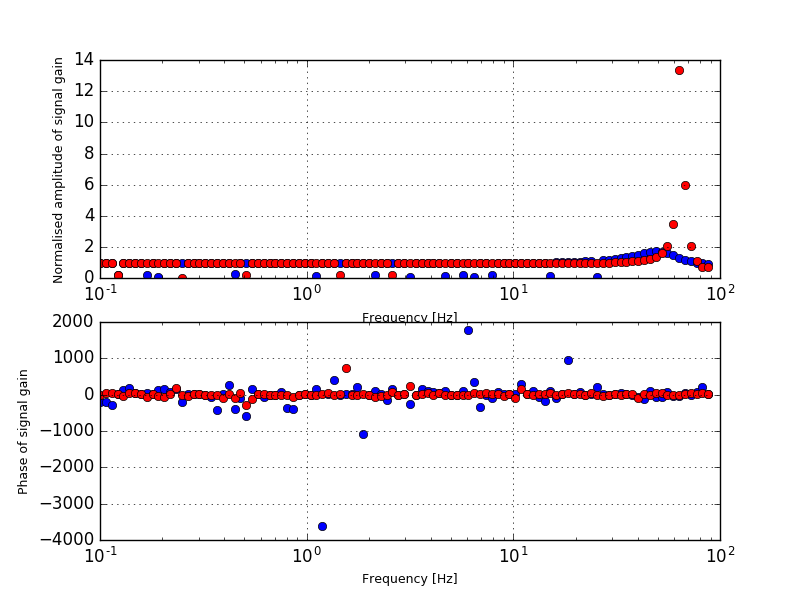
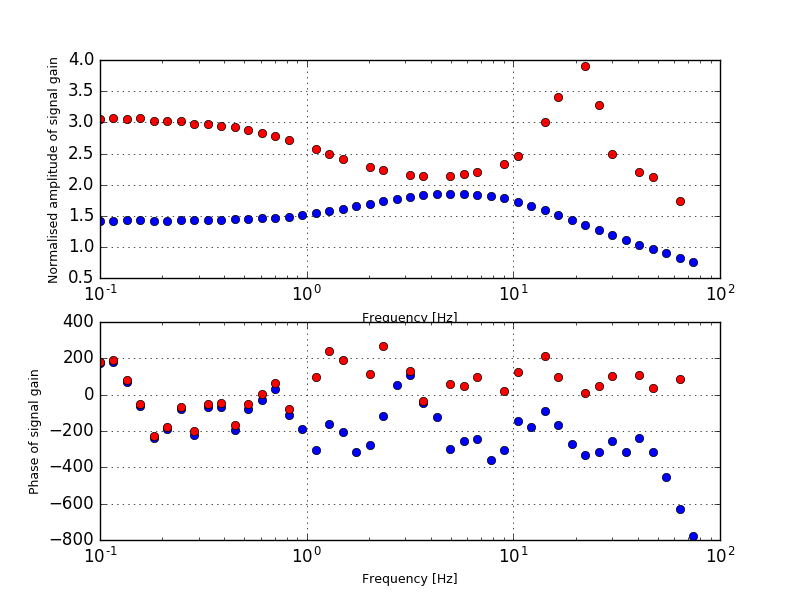
converted phase to rad in compute_gain

diff --git a/gain/GIF2val_functions_blau.py b/gain/GIF2val_functions_blau.py
@@ -13,10 +13,13 @@ v2: added functionality to make a hitogram plot with sinus fit for data points
 # -----------------------------------------------------------------------------
 import numpy as np
 import scipy.optimize as opti
+import matplotlib as mpl
+mpl.use('Agg')
 import matplotlib.pyplot as plt
 import matplotlib.gridspec as gridspec
 import matplotlib.image as mpimg
 from matplotlib import rc
+from matplotlib.backends.backend_pdf import PdfPages
 rc('mathtext', default='regular')
 
 
@@ -36,9 +39,9 @@ class sinus:
 
 	def fit(self, t, amp, off, phi):
 		"""
-        Sine function for fitting amplitude, frequency, offset and phase.
-        :return: sine function with given parameters
-        """
+		Sine function for fitting amplitude, frequency, offset and phase.
+		:return: sine function with given parameters
+		"""
 		return amp * np.sin(2. * np.pi * self.f * t + phi) + off
 
 # -----------------------------------------------------------------------------
@@ -142,8 +145,37 @@ def import_params_as_dict(filename='jobdict.txt'):
 	return paramdict
 
 # -----------------------------------------------------------------------------
-# Visualise the results
+# Preprocessing
 # -----------------------------------------------------------------------------
+
+
+def import_gain(filename='gains.csv'):
+	"""
+	imports the gain matrix from a given file
+	"""
+	conditions = [ ]
+	with open(filename, 'r') as f:
+		for line in f.readlines():
+			if line:
+				freq, cond, gain_amp, gain_phase = line.strip().split(':')
+			else:
+				freq, cond, gain_amp, gain_phase = 0., 0., 0., 0.
+			if cond not in conditions:
+				conditions.append(cond)
+				print('condition {0} coded as {1}'.format(cond,
+														  conditions.index(
+															  cond)))
+			ind = conditions.index(cond)
+			try:
+				gain = np.vstack((gain,
+								  np.array([ ind, freq, gain_amp,
+											 gain_phase ],
+										   dtype=float)))
+			except NameError:
+				gain = np.array([ ind, freq, gain_amp, gain_phase ],
+								dtype=float)
+	gain = sort_gain(gain)
+	return gain, conditions
 
 
 def sort_gain(gainmat):
@@ -161,39 +193,10 @@ def sort_gain(gainmat):
 	return gainmat
 
 
-def import_gain(filename='gains.csv'):
-	"""
-	imports the gain matrix from a given file
-	"""
-	conditions = [ ]
-	with open(filename, 'r') as f:
-		for line in f.readlines():
-			if line:
-				freq, cond, gain_amp, gain_phase = line.strip().split(':')
-			else:
-				freq, cond, gain_amp, gain_phase = 0., 0., 0., 0.
-			if cond not in conditions:
-				conditions.append(cond)
-				print('condition {0} coded as {1}'.format(cond, conditions.index(cond)))
-			ind = conditions.index(cond)
-			try:
-				gain = np.vstack((gain,
-								  np.array([ ind, freq, gain_amp, gain_phase ],
-										   dtype=float)))
-			except NameError:
-				gain = np.array([ ind, freq, gain_amp, gain_phase ],
-								dtype=float)
-	gain = sort_gain(gain)
-	return gain, conditions
-
-
-def split_gain_conditions(gainmat, normalise=True, withone=False):
+def split_gain_conditions(gainmat):
 	"""
 	Separate the conditions for low and high noise in the gain matrix
 	"""
-	# exp_f_r, exp_r_0, C_m, g, g_1, tau_1:
-	paramdict = import_params_as_dict('jobdict.txt')
-
 	frequencies = np.hstack((np.array([ 0 ]),
 							 np.logspace(-1., 2., num=len(
 								 np.unique(gainmat[ :, 1 ])) - 1)))
@@ -217,9 +220,35 @@ def split_gain_conditions(gainmat, normalise=True, withone=False):
 	gains_high = gainmat[ gainmat[ :, 0 ] == 0 ][ :, 2: ]
 	gains_low = gainmat[ gainmat[ :, 0 ] == 1 ][ :, 2: ]
 
+	plotdict = dict(gains_low=gains_low,
+					gains_high=gains_high,
+					freqs_low=freqs_low,
+					freqs_high=freqs_high)
+	return plotdict
+
+
+def gain_normaliser(gaindict, normalise=True, withone=False, **kwargs):
+
+	gains_low = gaindict[ 'gains_low' ]
+	gains_high = gaindict[ 'gains_high' ]
+
+	# Correct the phases for periodicity
+	add_360 = kwargs.pop('add_360', 'False')
+	if add_360:
+		gains_high[ :, 1 ] += 360.0
+		gains_low[ :, 1 ] += 360.0
+	# while np.sum(gains_high >= 180.0) > 0 or np.sum(gains_high <= -180.0)
+	# > 0:
+	# 	gains_high[ gains_high >= 180.0 ] -= 360.0
+	# 	gains_high[ gains_high <= -180.0 ] += 360.0
+	# 	gains_low[ gains_low >= 180.0 ] -= 360.0
+	# 	gains_low[ gains_low <= -180.0 ] += 360.0
+
 	# smooth the phases
-	gains_high = smooth_gain_phase_period(gains_high)
-	gains_low = smooth_gain_phase_period(gains_low)
+	smooth_before = kwargs.pop('smooth_before', 'False')
+	if smooth_before:
+		gains_high = smooth_gain_phase_period(gains_high)
+		gains_low = smooth_gain_phase_period(gains_low)
 
 	# normalise?
 	if normalise and not withone:
@@ -229,28 +258,20 @@ def split_gain_conditions(gainmat, normalise=True, withone=False):
 		gains_low[ :, 1 ] /= gains_low[ 0, 1 ]
 	elif normalise and withone:
 		gains_high[ :, 0 ] /= gains_high[ 1, 0 ]
-		gains_high[ :, 1 ] /= gains_high[ 0, 1 ]
+		gains_high[ :, 1 ] /= gains_high[ 1, 1 ]
 		gains_low[ :, 0 ] /= gains_low[ 1, 0 ]
-		gains_low[ :, 1 ] /= gains_low[ 0, 1 ]
+		gains_low[ :, 1 ] /= gains_low[ 1, 1 ]
 
-	# smooth the phases again
-	gains_high = smooth_gain_phase_period(gains_high)
-	gains_low = smooth_gain_phase_period(gains_low)
+	smooth_after = kwargs.pop('smooth_after', 'False')
+	if smooth_after:
+		# smooth the phases again
+		gains_high = smooth_gain_phase_period(gains_high)
+		gains_low = smooth_gain_phase_period(gains_low)
 
-
-	# Correct the phases for periodicity
-
-	# while np.sum(gains_high >= 180.0) > 0 or np.sum(gains_high <= -180.0) > 0:
-	# 	gains_high[ gains_high >= 180.0 ] -= 360.0
-	# 	gains_high[ gains_high <= -180.0 ] += 360.0
-	# 	gains_low[ gains_low >= 180.0 ] -= 360.0
-	# 	gains_low[ gains_low <= -180.0 ] += 360.0
-
-	plotdict = dict(gains_low=gains_low,
-					gains_high=gains_high,
-					freqs_low=freqs_low,
-					freqs_high=freqs_high)
-	return plotdict
+	gaindict2 = dict(gains_high=gains_high, gains_low=gains_low,
+					 freqs_low=gaindict[ 'freqs_low' ],
+					 freqs_high=gaindict[ 'freqs_high' ])
+	return gaindict2
 
 
 def smooth_gain_phase_period(gains_sep):
@@ -265,11 +286,15 @@ def smooth_gain_phase_period(gains_sep):
 	return gains_sep
 
 
+# -----------------------------------------------------------------------------
+# Visualise the results
+# -----------------------------------------------------------------------------
+
 def show_gain(plotdict, save=True):
 	"""
 	creates the fig6 plots from richardson et al., 2003
 	"""
-	gains_low = plotdict[ 'gains_low' ]	
+	gains_low = plotdict[ 'gains_low' ]
 	gains_high = plotdict[ 'gains_high' ]
 	freqs_low = plotdict[ 'freqs_low' ]	
 	freqs_high = plotdict[ 'freqs_high' ]
@@ -292,6 +317,8 @@ def show_gain(plotdict, save=True):
 	plt.ylabel('Phase of signal gain', size=9.)
 	plt.xlim([ -1., 100. ])
 	if save == True:
+		# exp_f_r, exp_r_0, C_m, g, g_1, tau_1:
+		paramdict = import_params_as_dict('jobdict.txt')
 		plt.savefig('Richardson_Fig6CD_{0}.png'.format(paramdict[ 'simindex' ]))
 	else:
 		plt.ion()
@@ -299,46 +326,38 @@ def show_gain(plotdict, save=True):
 	return fig
 
 
-def gain_plots(filename='gains.csv', normalise=True, withone=False):
-	"""
-	generates the plots for figure 6 from saved data files.
-	"""
-	gains, conditions = import_gain(filename)
-	gaindict = split_gain_conditions(gains, normalise=normalise, withone=withone)
-	fig = show_gain(gaindict, save=True)
-	return fig
-
-
-# -----------------------------------------------------------------------------
-# Multiplots
-# -----------------------------------------------------------------------------
-
 def multiplot(condition, queueid, freqindex, bins, bars, f, amp, phase, offset):
 	"""
 	create a multiplot, each showing a fit of a single datapoint.
 	"""
 	plotindex = np.array(np.linspace(0, maxindex, 15), dtype=int)
-	outputname = 'multiplots_{0}_R.png'.format(queueid)
+	mysine = sinus(f / 1000.)
+	sineplot = mysine.fit(bins, amp, offset, phase)
 
 	if freqindex in plotindex:
-		if condition == 'R':
-			histofit = plt.figure('Gain multiplots')
-			ax = plt.subplot2grid((4, 4), (int(freqindex/4), freqindex % 4))
-			ax.hist(bars, bins)
-			for tick in ax.xaxis.get_major_ticks():
-				tick.label.set_fontsize(6)
-			for tick in ax.yaxis.get_major_ticks():
-				tick.label.set_fontsize(6)
-			if int(freqindex/4) != 3:
-				ax.set_yticklabels(( ))
-			if (freqindex % 4) != 0:
-				ax.set_xticklabels(( ))
-			mysine = sinus(f/1000.)
-			sineplot = mysine.fit(bins, amp, offset, phase)
-			ax.plot(bins, sineplot)
-			plt.savefig(outputname, format='png', dpi=600)  #,
-					# pad_inches=0.1, bbox_inches='tight')
+		outputname = 'multiplots_{0}_{1}.pdf'.format(queueid, condition)
+		histofit = plt.figure('Gain multiplots')
+		ax = plt.subplot2grid((4, 4), (int(freqindex/4), freqindex % 4))
+		ax.hist(bars, bins)
+		for tick in ax.xaxis.get_major_ticks():
+			tick.label.set_fontsize(6)
+		for tick in ax.yaxis.get_major_ticks():
+			tick.label.set_fontsize(6)
+		if int(freqindex/4) != 3:
+			ax.set_yticklabels(( ))
+		if (freqindex % 4) != 0:
+			ax.set_xticklabels(( ))
+		ax.plot(bins, sineplot)
+		pp = PdfPages(outputname)
+		pp.savefig(histofit, dpi=600, transparent=True)
+		pp.close()
 
+		outputname_single = 'singleplots_{0}_{1}_{2}.png'.format(queueid, freqindex, condition)
+		histofit2 = plt.figure('Gain singleplots')
+		ax2 = histofit2.add_subplot(1, 1, 1)
+		ax2.hist(bars, bins)
+		ax2.plot(bins, sineplot)
+		plt.savefig(outputname_single, format='png', dpi=600, pad_inches=0.1, bbox_inches='tight')
 
 # -----------------------------------------------------------------------------
 # Evaluate the results
@@ -388,10 +407,10 @@ def compute_gain(bins, heights, simparamdict, I_stimdict, f, dt):
 	amp_guess_r = (max(heights) - min(heights)) / 2.
 
 	# current injection works with a delay of dt
-	if f != 0:
-		phase = -(((t_recstart - dt)/f_rc) % 1) * 360
-	else:
-		phase = 0.0
+	# if f != 0:
+	# 	phase = -((t_recstart - dt)/f_rc) * 2 * np.pi
+	# else:
+	phase = 0.0
 	bins = bins[ :-1 ]  # for compatibility with np.histogram
 	mysine = sinus(f_rc)  # frequency in 1/ms
 
@@ -404,10 +423,21 @@ def compute_gain(bins, heights, simparamdict, I_stimdict, f, dt):
 
 	print('fitted values: {0} for f={1}'.format(popt, f))
 	gain[ 0 ] = abs(popt[ 0 ]) / I_1
-	gain[ 1 ] = popt[ 2 ] - dt  # * 2 * np.pi
+	gain[ 1 ] = -np.rad2deg(popt[ 2 ])
 
 	# generate the time series for the true current sinsusoidal
 	# stim_sinecurve = mysine.fit(bins - hist_binwidth, I_1, I_0, phase)
 	# find the zero-crossings in both time series
 	# compute the mean difference between zero crossings of both series
 	return gain, r_0_rc
+
+
+def gain_plots(filename='gains.csv', normalise=True, withone=False, **kwargs):
+	"""
+	generates the plots for figure 6 from saved data files.
+	"""
+	gains, conditions = import_gain(filename)
+	gaindict = split_gain_conditions(gains)
+	gaindict = gain_normaliser(gaindict, normalise=normalise, withone=withone, **kwargs)
+	fig = show_gain(gaindict, save=True)
+	return fig

diff --git a/gain/GIF2val_execution.py b/gain/GIF2val_execution.py
@@ -22,6 +22,9 @@ import getopt
 import sys
 import numpy as np
 execfile('GIF2val_functions_blau.py')
+import matplotlib as mpl
+mpl.use('Agg')
+import matplotlib.pyplot as plt
 
 import time
 import nest
@@ -114,13 +117,13 @@ for condition in noise_conditions:
 
     write_results(resultdict)
 
+    endtime = time.time()
+    print('condition {0} with frequency {1} took {2}ms.'.format(
+            condition, f, endtime - starttime))
     if show_fits:
         multiplot(condition, simparameterdict[ 'simindex' ], freqindex, hist_bins,
                   hist_heights, f, gain[ 0 ] * I_stimdict[ 'amplitude' ],
                   gain[ 1 ], exp_r_0)
 
     #nest.ResetKernel()
-    endtime = time.time()
-    print('condition {0} with frequency {1} took {2}ms.'.format(
-        condition, f, endtime - starttime))
 
